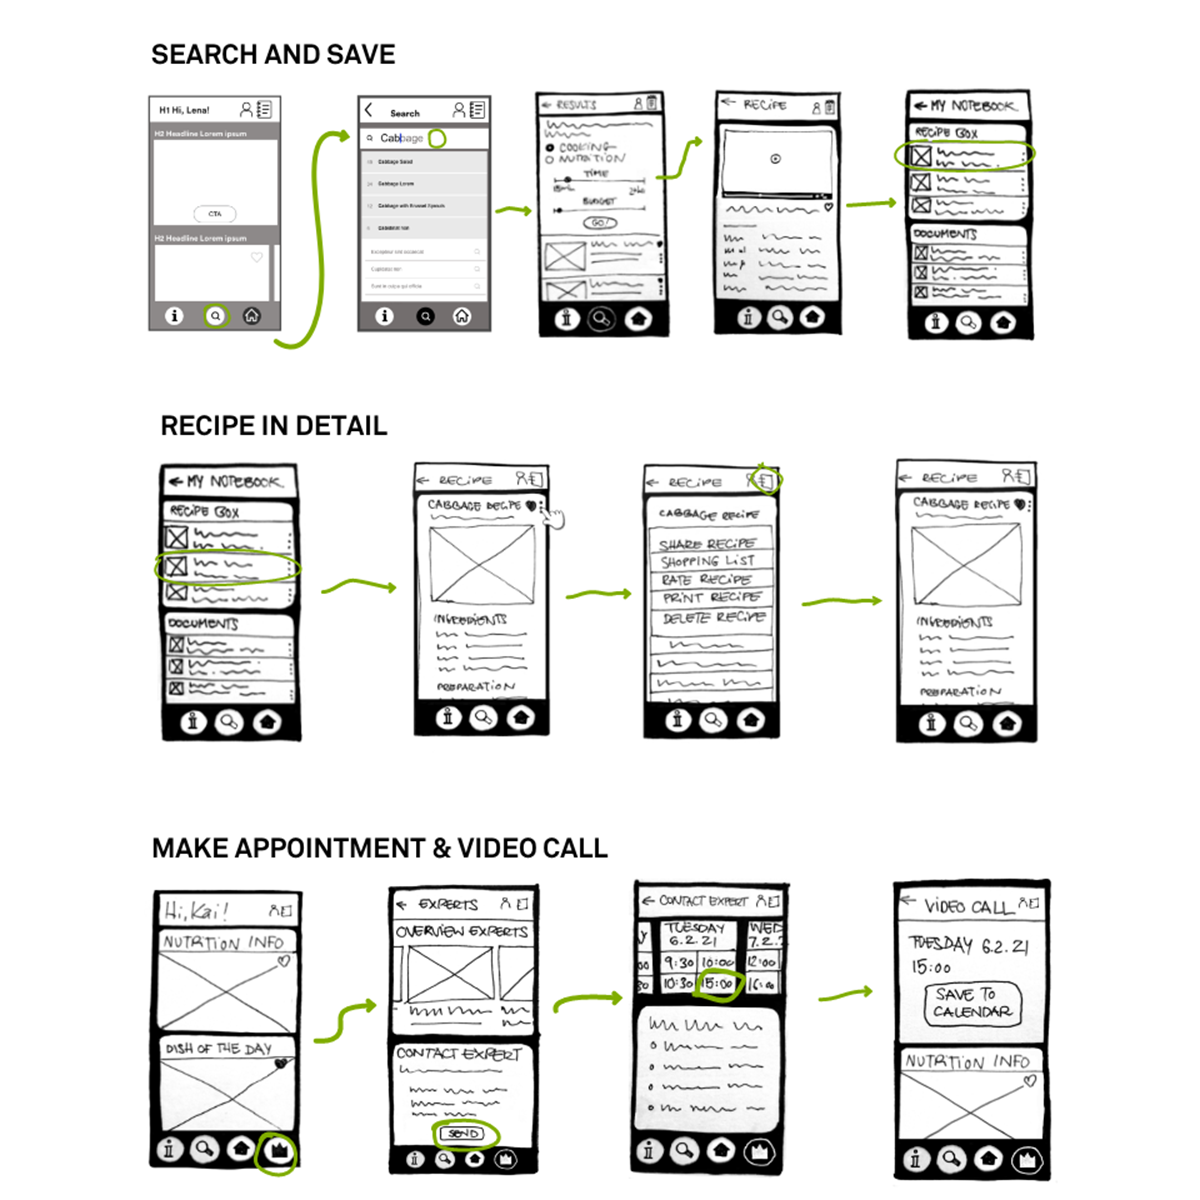
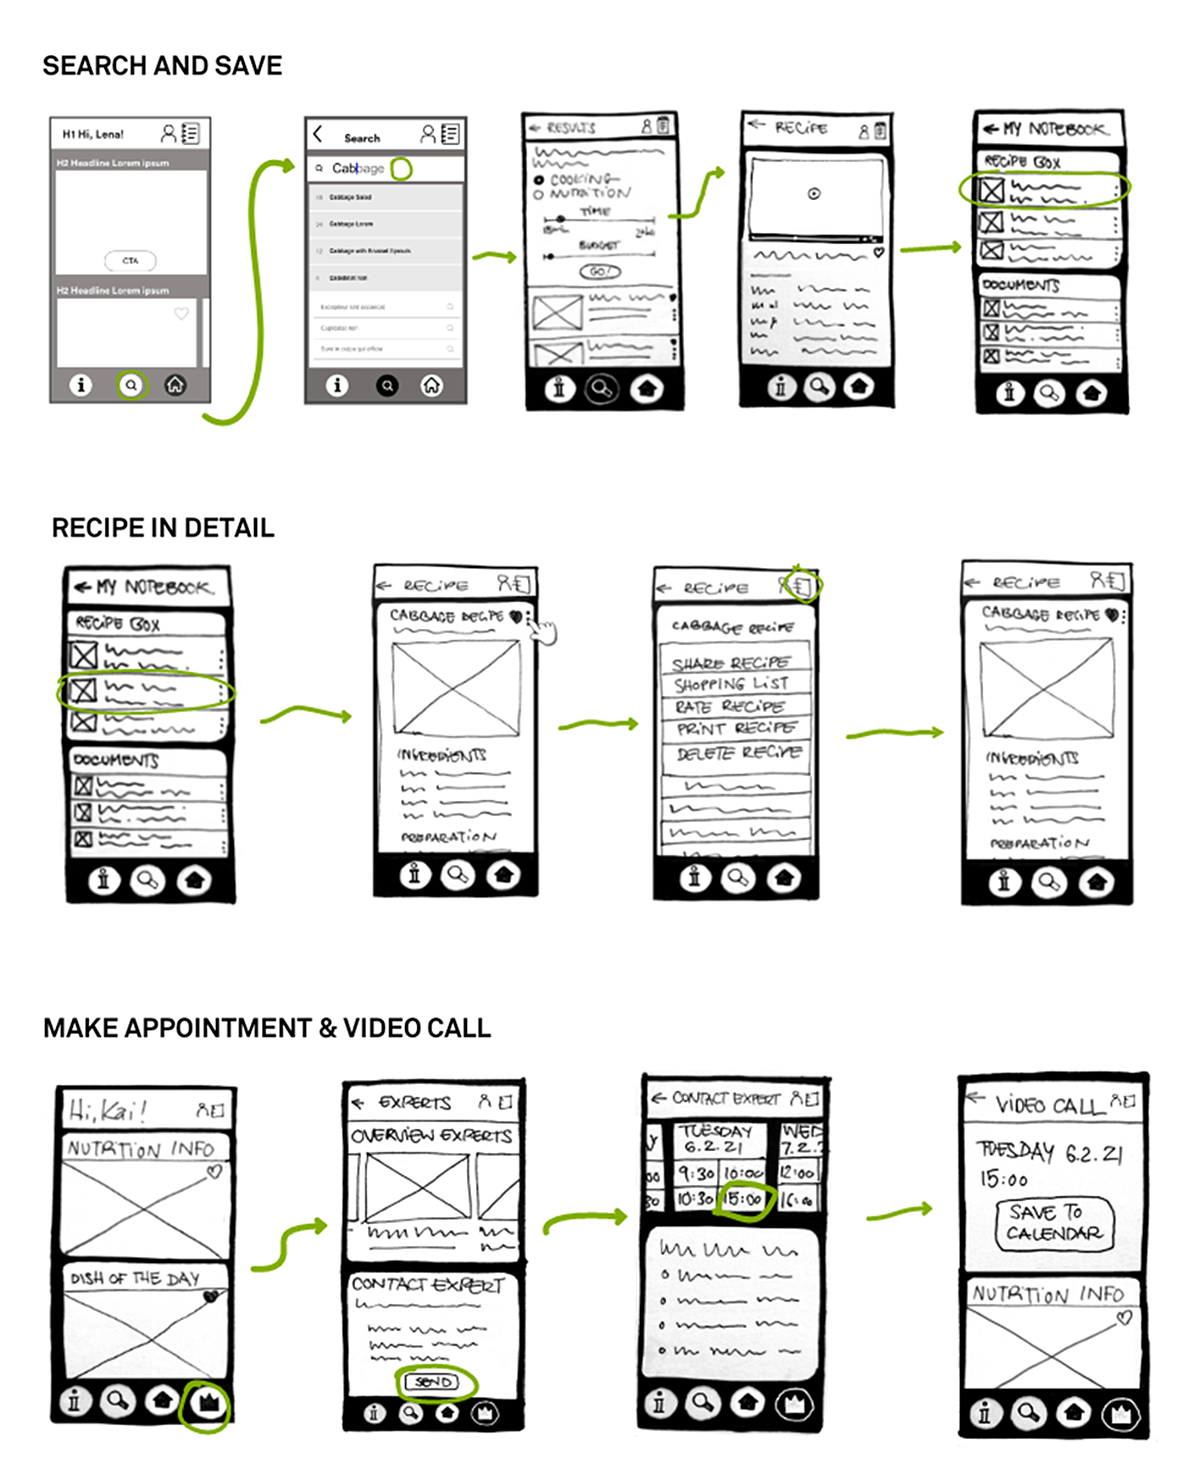
final corrections

diff --git a/css/style.css b/css/style.css
@@ -380,6 +380,10 @@ Medium devices (640px and larger)
     padding-bottom: 12px;
   }
 
+  .imgsmall {
+    max-width: 600px;  }
+
+
   header {
     height: 40px;
     background-color: #ffffff;
@@ -482,7 +486,6 @@ Large devices (1024px or larger)
     nav {
       width: auto;
       text-align: center;
-      margin-top: 4px;
     }
 
     nav>ul>li>a {
@@ -498,6 +501,7 @@ Large devices (1024px or larger)
       font-size: 2.50em;
       font-weight: 800;
       margin-bottom: 10px;
+      margin-top: 10px;
     }
 
     p {
@@ -551,20 +555,12 @@ Large devices (1024px or larger)
       padding-top: 35px;
     }
 
-    .logo {
-      width: 280px;
-      height: auto;
-      padding-left: 24px;
-      padding-bottom: 0px;
-
-    }
-
     h3 {
       font-size: 2.00em;
     }
 
     .logo {
-      max-width: 260px;
+      max-width: 240px;
       padding-left: 24px;
       padding-top: 20px;
       padding-bottom: 0px;
@@ -573,12 +569,12 @@ Large devices (1024px or larger)
 
     .spacer {
       width: 100%;
-      height: 160px;
+      height: 90px;
     }
 
     .footerspacer {
       width: 100%;
-      height: 80px;
+      height: 60px;
     }
 
     #h2footer {
@@ -620,9 +616,9 @@ X-large devices (1440px or larger)
       column-gap: 1.5em;
       row-gap: 1em;
     }
-
-    .spacer {
-      height: 160px;
-    }
-  }
+    
+    #quote {
+        font-family: 'Work Sans', sans-serif;
+        font-size: 2.75em;
+      }
 }

diff --git a/ezee.html b/ezee.html
@@ -128,9 +128,7 @@
       </div>
       <div>
         <!-- open second column (used for images) -->
-        <picture>
-          <source srcset="img/ezee/ezee_interviewees_600x817.png"> <img src="img/ezee/ezee_interviewees_600x817.png" alt="Interviewees for ezee Vegan application">
-        </picture>
+    <img class="imgsmall" src="img/ezee/ezee_interviewees_600x817.png" alt="Interviewees for ezee Vegan application">
       </div>
     </div>
     <div id="quote">“I’m ready to try everything new if it’s presented to me.”</div>
@@ -171,7 +169,7 @@
       <p>A first mockup helped me test the flow and make improvements.I focused on three tasks which build the core of the application.<br> 1. Search and save a recipe<br>2. View the details of a recipe<br> 3. Make appointment and video call expert
       </p><br>
       <picture>
-        <source srcset="img/ezee/lowfi.png" media="(max-width:767px)"> <img src="img/ezee/lowfi.png" alt="ezee Vegan App, Low-Fi Prototype" style="border:1px solid black">
+        <source srcset="img/ezee/lowfi_6006x600.png" media="(max-width:767px)"> <img src="img/ezee/lowfi_1200x1200.png" alt="ezee Vegan App, Low-Fi Prototype" style="border:1px solid black">
       </picture>
 
     </div><!-- end second column -->

diff --git a/about.html b/about.html
@@ -51,7 +51,7 @@
       </div><!-- end first column -->
       <div>
         <!-- open second column (used for text) -->
-        <h4 style="margin-top: 0px;">Approach</h4>
+        <h4 style="margin-top: 0px;">About Me</h4>
         <p>I aim to improve peoples lives by creating both useful and usable services. With my longtime experience as a Creative Director I bring additional expertise in visual communication, too. I'm based in Hamburg, Germany.</p><br>
         <h4>Experience</h4>
         <p>08/2021: Specialisation Frontend Development, Career Foundry</p>
